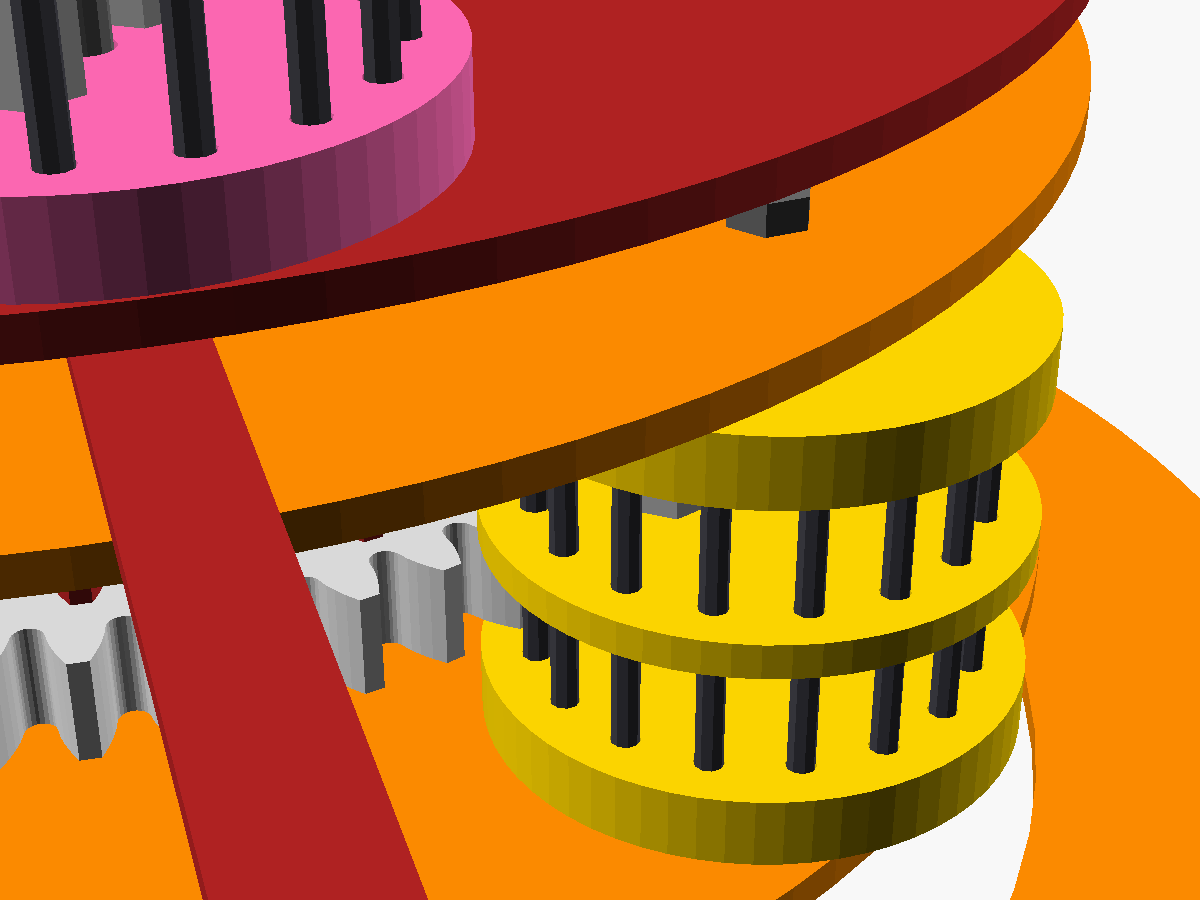
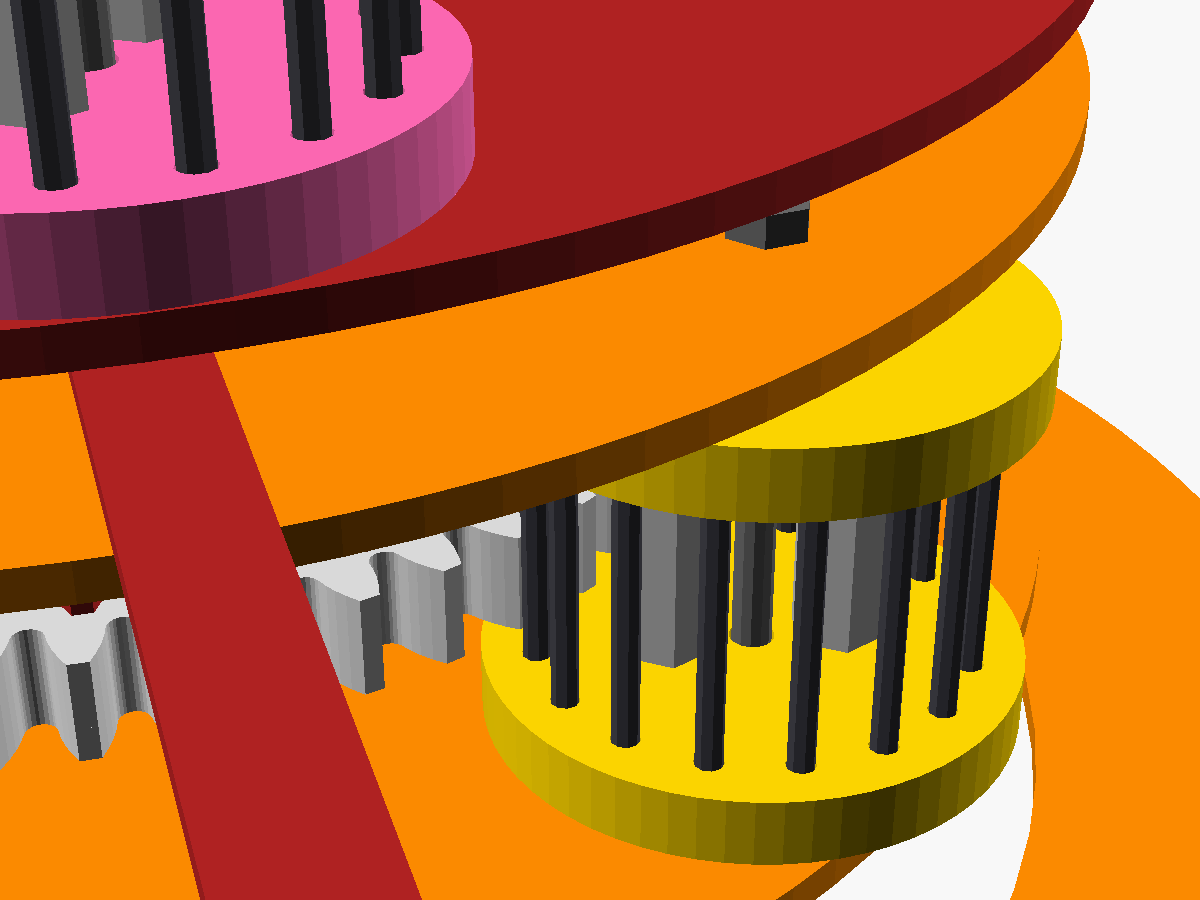
Clock train: lantern without the middle disc (4 layers, both suns between its 2 discs)
Claude-Session: https://claude.ai/code/session_01LQy87QnU21cWEAk5CN6jGY

diff --git a/marbles/clock/clock_train_drive.py b/marbles/clock/clock_train_drive.py
@@ -12,7 +12,6 @@ import clock_lantern as cl  # noqa: E402
 T, A, ZONE, L_SUN, N_PL = cl.T, cl.A, cl.ZONE, cl.L_SUN, cl.N_PL
 CB, FC, GAP, CAR_IN, UP_R, CAR_OUT = 3.0, 3.0, 24, 44.5, 48, cl.A + 14
 SP_UP, SP_HAND, SP_R, TIE_D = 20, 15, cl.SP_D / 2, cl.TIE_D
-CL = (ZONE - L_SUN * T) / 2
 BEAM_REACH = 43.01            # 1515 beam corner from the rod: hypot(25, 20 + 15)
 COL = dict(fix="0.80", sec="darkorange", mpl="gold", minute="firebrick", hpl="hotpink", hour="royalblue", hw="0.25", pin="0.15")
 HERE = Path(__file__).resolve().parent
@@ -26,8 +25,8 @@ def box(ax, z0, dz, r0, r1, col, ec="k", lw=.5):
 def layout():
     """z (along the rod) inside one stage, back carrier's back face = 0, as clock_train.scad (explode 0)"""
     z0 = T + CB
-    zl = [z0 + x for x in (0, T, 2 * T, 2 * T + ZONE, 3 * T + ZONE, 3 * T + 2 * ZONE, 4 * T + 2 * ZONE, 5 * T + 2 * ZONE)]
-    z = dict(zl=zl, sunA=zl[2] + CL, sunB=zl[4] + CL, fc=zl[7] + FC)
+    zl = [z0 + x for x in (0, T, 2 * T, 2 * T + ZONE, 3 * T + ZONE, 4 * T + ZONE)]
+    z = dict(zl=zl, sunA=zl[2] + cl.SUN_CLR, sunB=zl[2] + cl.SUN_CLR + L_SUN * T + cl.SUN_GAP, fc=zl[5] + FC)
     z["depth"] = z["fc"] + T
     z["keeper_front"] = z["sunB"] + (L_SUN + 1) * T
     return z
@@ -46,20 +45,20 @@ def stage(ax, z0, name, ccar, cpl, cout, st):
     for zz in (z["sunB"] - T, z["sunB"] + L_SUN * T):
         box(ax, zz, T, 8, 21, cout)                                                                  # keepers
     box(ax, z["sunB"] + 0.4, 7, 4, 11, "silver")                                                    # 608
-    for i in (0, 1, 3, 5, 6):                                                                        # lantern layers
+    for i in (0, 1, 3, 4):                                                                           # lantern layers
         box(ax, zl[i], T, A - lr, A + lr, cpl)
     r = st["A"]["r"]
     for sgn in (-1, 1):                                                                              # pins (one set, both suns)
-        box(ax, zl[1], zl[6] - zl[1], A + sgn * r - cl.PIN / 2, A + sgn * r + cl.PIN / 2, COL["pin"], ec="none")
+        box(ax, zl[1], zl[4] - zl[1], A + sgn * r - cl.PIN / 2, A + sgn * r + cl.PIN / 2, COL["pin"], ec="none")
     for sgn in (-1, 1):                                                                              # tie bolts + spacers
         rt = A + sgn * TIE_D
-        box(ax, zl[0] - 2, zl[7] - zl[0] + 4.4, rt - 1.5, rt + 1.5, COL["hw"])
-        for za, zb in ((zl[2], zl[3]), (zl[4], zl[5])):
+        box(ax, zl[0] - 2, zl[5] - zl[0] + 4.4, rt - 1.5, rt + 1.5, COL["hw"])
+        for za, zb in ((zl[2], zl[3]),):
             box(ax, za, zb - za, rt - SP_R, rt + SP_R, "silver")
     box(ax, z0 - 2, z["fc"] + T + 4.6 - z0, A - 1.5, A + 1.5, COL["hw"])                            # axle bolt (fixed)
     for zz in (z0 + T, z["fc"] - 2.4, z["fc"] + T):
         box(ax, zz, 2.4, A - 3.2, A + 3.2, COL["hw"])
-    chk = {"sun A to middle disc": zl[3] - (z["sunA"] + L_SUN * T), "lantern inner reach vs sun tips (axial: zones)": CL,
+    chk = {"sun B to front lantern disc": zl[3] - (z["sunB"] + L_SUN * T), "fixed sun to output sun's back keeper": cl.SUN_GAP - T,
            "UP_R standoff vs hour beam": UP_R - 2.5 - BEAM_REACH, "UP_R standoff vs lantern discs": A - lr - UP_R - 2.5,
            "tie spacers inside the sun tips": min(st[k]["r"] - (st[k]["tip"] - st[k]["R"]) for k in st) - TIE_D - SP_R}
     for k, v in chk.items():
@@ -91,16 +90,16 @@ def drive_diagram():
     L("ESCAPE WHEEL front ring\n+ seconds pointer (1 rev/min)", (zw + 1, 125), (zw - 40, 140), COL["sec"])
     L("6 standoffs: wheel drives\nthe MINUTE CARRIER", (zw + 12, 80), (zw - 40, 104), COL["sec"])
     L("minute carrier: back + front annulus, tied by\nM3 + spacers between the planets\nand by the planet axle bolts", (1, 50), (zw - 40, 52), COL["sec"])
-    L(f"MINUTE PLANET (one lantern, counterweight opposite): {cl.P_PL} straight wire pins right through 3 discs,\n"
-      f"trapped by solid covers; 2 M3 tie bolts (+10 spacers); spins on its M3 axle bolt.\n"
+    L(f"MINUTE PLANET (one lantern, counterweight opposite): {cl.P_PL} straight wire pins between 2 discs,\n"
+      f"trapped by solid covers; 2 M3 tie bolts; spins on its M3 axle bolt.\n"
       f"The same pins roll round the FIXED {sm['A']['Z']}-tooth sun and push the {sm['B']['Z']}-tooth MINUTE SUN",
-      (m["zl"][3] + 1, A + 18), (-38, 118), "darkgoldenrod")
+      (m["zl"][2] + 12, A + 18), (-38, 118), "darkgoldenrod")
     L(f"FIXED minute sun: {sm['A']['Z']} teeth, 3 ply layers, bolted to a 1515 beam,\nSK8 on the beam clamps the rod "
       f"(beam + SK8 drawn schematically: they sit below the rod)", (m["sunA"] + 1, 30), (zw - 40, 14), "0.35")
     L(f"MINUTE SUN: {sm['B']['Z']} teeth, the 608 sits in its 3 layers,\na keeper ring each side (1 rev/h)", (m["sunB"] + 1, 45), (m["sunB"] - 30, -34), COL["minute"])
     L(f"5 standoffs ({SP_UP}): minute sun\ndrives the HOUR CARRIER", (m["sunB"] + 14, UP_R), (m["sunB"] + 30, -30), COL["minute"])
     L("MINUTE HAND, on the hour carrier", (z_h - 1, 138), (z_h - 50, 148), COL["minute"])
-    L(f"HOUR PLANET (one lantern + counterweight): its pins roll\nround the FIXED {sh['A']['Z']}-tooth sun and push the {sh['B']['Z']}-tooth HOUR SUN", (h["zl"][3] + 1, A + 18), (z_h + 6, 112), "mediumvioletred")
+    L(f"HOUR PLANET (one lantern + counterweight): its pins roll\nround the FIXED {sh['A']['Z']}-tooth sun and push the {sh['B']['Z']}-tooth HOUR SUN", (h["zl"][2] + 12, A + 18), (z_h + 6, 112), "mediumvioletred")
     L(f"FIXED hour sun ({sh['A']['Z']} teeth)\n+ its beam + SK8", (h["sunA"] + 1, 30), (z_h + 50, 36), "0.35")
     L(f"HOUR SUN (60 teeth) on a 608,\n{SP_HAND} spacers + HOUR HAND\n(1 rev / 12 h), clear of the\nfront carrier and its nuts", (z_hh + 1, 66), (z_hh + 12, 74), COL["hour"])
     L("straight wire pin: rides in\nBOTH suns' teeth, trapped\nbetween the two covers", (m["zl"][2] + 4, A - sm["A"]["r"]), (m["zl"][2] - 12, 92), COL["pin"])
@@ -125,7 +124,7 @@ def renders():
         a = fig.add_axes([0.0 + (i % 2) * 0.5, 0.52 - (i // 2) * 0.5, 0.5, 0.46]); a.imshow(mi.imread(VIEWS / f"{n}.png")); a.axis("off"); a.set_title(t, fontsize=14)
     a = fig.add_axes([0.05, 0.04, 0.9, 0.42]); a.axis("off")
     for k, (c, txt) in enumerate(((COL["sec"], "ORANGE: escape wheel + 6 standoffs + minute carrier (back + front) (1 rev/min)"),
-                                  (COL["mpl"], "YELLOW: the minute planet: one lantern, 16 straight wire pins through 3 discs, on an M3 axle (counterweight opposite)"),
+                                  (COL["mpl"], "YELLOW: the minute planet: one lantern, 16 straight wire pins between 2 discs, on an M3 axle (counterweight opposite)"),
                                   (COL["minute"], "RED: minute sun (60 teeth) + 5 standoffs + hour carrier (back + front) + minute hand (1 rev/h)"),
                                   (COL["hpl"], "PINK: the hour planet (one lantern: its pins mesh the fixed 55-tooth sun and the hour sun)"),
                                   (COL["hour"], "BLUE: hour sun (60 teeth) + hour hand (on spacers) (1 rev / 12 h)"),

diff --git a/marbles/clock/clock_lantern.py b/marbles/clock/clock_lantern.py
@@ -9,10 +9,11 @@ pins' real path, so being a little off each pitch circle costs nothing).
 Shared pins put the planet at the same phase on both suns, which only fits planets 360 / (ZB - ZA) apart: minutes (60 - 59
 = 1) one planet; hours (60 - 55 = 5) one, or up to 5 at 72 deg. Extra minute planets would need separate A / B pin sets.
 
-The lantern, back -> front, all ply3, clamped by 2 M3 tie bolts (+ 10 spacers in the two sun zones), spinning on a centre
-M3 axle bolt nutted to both carriers:
-  cover (solid) | disc (holes) | [sun A zone, 10] | middle disc (holes) | [sun B zone, 10] | disc (holes) | cover (solid)
-The pins (disc to disc, straight wire cut to one length) are trapped between the covers. All planets identical.
+The lantern, back -> front, all ply3, clamped by 2 M3 tie bolts (nuts / spacers set the gap), spinning on a centre M3
+axle bolt nutted to both carriers:
+  cover (solid) | disc (holes) | [ sun A | gap | sun B ] | disc (holes) | cover (solid)
+The pins (disc to disc, straight wire cut to one length) are trapped between the covers. All planets identical. No middle
+disc: the pin load is ~1 N per sun, a 2.05 steel pin over the ~23 mm span bends ~0.0015 mm.
 
     python3 marbles/clock/clock_lantern.py    # numbers + clock_lantern_profiles.scad (used by clock_train.scad)
 """
@@ -27,10 +28,12 @@ PIN, PIN_HOLE, RIM = cp.PIN, cp.PIN_HOLE, cp.RIM
 P_PL = 16                        # lantern pins (each side)
 N_PL = 1                         # planets per stage (shared pins: see above)
 L_SUN = 3                        # ply layers per sun gear
-ZONE = 10.0                      # lantern disc to lantern disc round a sun (a bought 10 spacer on each tie bolt)
+SUN_CLR = 1.0                    # sun to lantern disc, each side
+SUN_GAP = 4.0                    # fixed sun to output sun (the output sun's back keeper ring, 2.63, sits in it)
 TIE_D = 6.5                      # tie bolts, either side of the planet centre
 SP_D = 7.0
 STAGES = {"minute": dict(ZA=59, ZB=60), "hour": dict(ZA=55, ZB=60)}
+ZONE = 2 * SUN_CLR + 2 * L_SUN * T + SUN_GAP     # disc to disc
 A = 60.0 + P_PL                  # sun B pitch 2*pi -> pin circle (lantern B) r P_PL, sun B pitch r 60
 
 
@@ -92,7 +95,7 @@ def pts(poly):
 if __name__ == "__main__":
     from shapely import affinity
     lines = ["// generated by clock_lantern.py: sun gear outlines (a tooth space on +x) + lantern pin circles",
-             f"CLOCK_A = {A}; N_PL = {N_PL}; P_PL = {P_PL}; L_SUN = {L_SUN}; ZONE = {ZONE}; TIE_D = {TIE_D};"]
+             f"CLOCK_A = {A}; N_PL = {N_PL}; P_PL = {P_PL}; L_SUN = {L_SUN}; ZONE = {ZONE}; TIE_D = {TIE_D}; SUN_CLR = {SUN_CLR}; SUN_GAP = {SUN_GAP};"]
     disc_r = 0
     for name, S in STAGES.items():
         st = stage(S)
@@ -110,14 +113,14 @@ if __name__ == "__main__":
                 lines.append(f"{name}_r = {d['r']:.4f};")
             disc_r = max(disc_r, d["r"] + PIN_HOLE / 2 + RIM)
     lines.append(f"LANTERN_R = {disc_r:.3f};")
-    pin_len = 3 * T + 2 * ZONE
+    pin_len = 2 * T + ZONE
     n = P_PL * N_PL * len(STAGES)
     print(f"lantern disc r {disc_r:.2f}; planet reaches {A - disc_r:.2f} .. {A + disc_r:.2f} from the rod")
     print(f"pins: {P_PL} x {N_PL} planet x {len(STAGES)} stages = {n}, each {pin_len:.2f} long "
-          f"(3 discs {3 * T:.2f} + 2 zones {2 * ZONE}) -> {n * pin_len / 1000:.2f} m of wire")
-    print(f"planet stack: 5 layers + 2 zones = {5 * T + 2 * ZONE:.2f}")
+          f"(2 discs {2 * T:.2f} + zone {ZONE:.2f}) -> {n * pin_len / 1000:.2f} m of wire")
+    print(f"planet stack: 4 layers + zone = {4 * T + ZONE:.2f}")
     # counterweight: rough planet mass (ply 0.6 g/cm3, steel 7.85) -- an estimate, balance the carrier by hand
-    ply = 5 * math.pi * disc_r ** 2 * T * 0.6e-3
+    ply = 4 * math.pi * disc_r ** 2 * T * 0.6e-3
     pins = n / len(STAGES) * pin_len * math.pi * (PIN / 2) ** 2 * 7.85e-3
     hw = 3 * (40 * math.pi * 1.5 ** 2 * 7.85e-3) + 6 * 0.6 + 2 * 1.0       # 3 M3 x ~40, 6 nuts, 2 spacers (guesses)
     print(f"planet mass ~{ply + pins + hw:.0f} g (ply {ply:.1f} + pins {pins:.1f} + hardware ~{hw:.1f}, estimate) -> "
